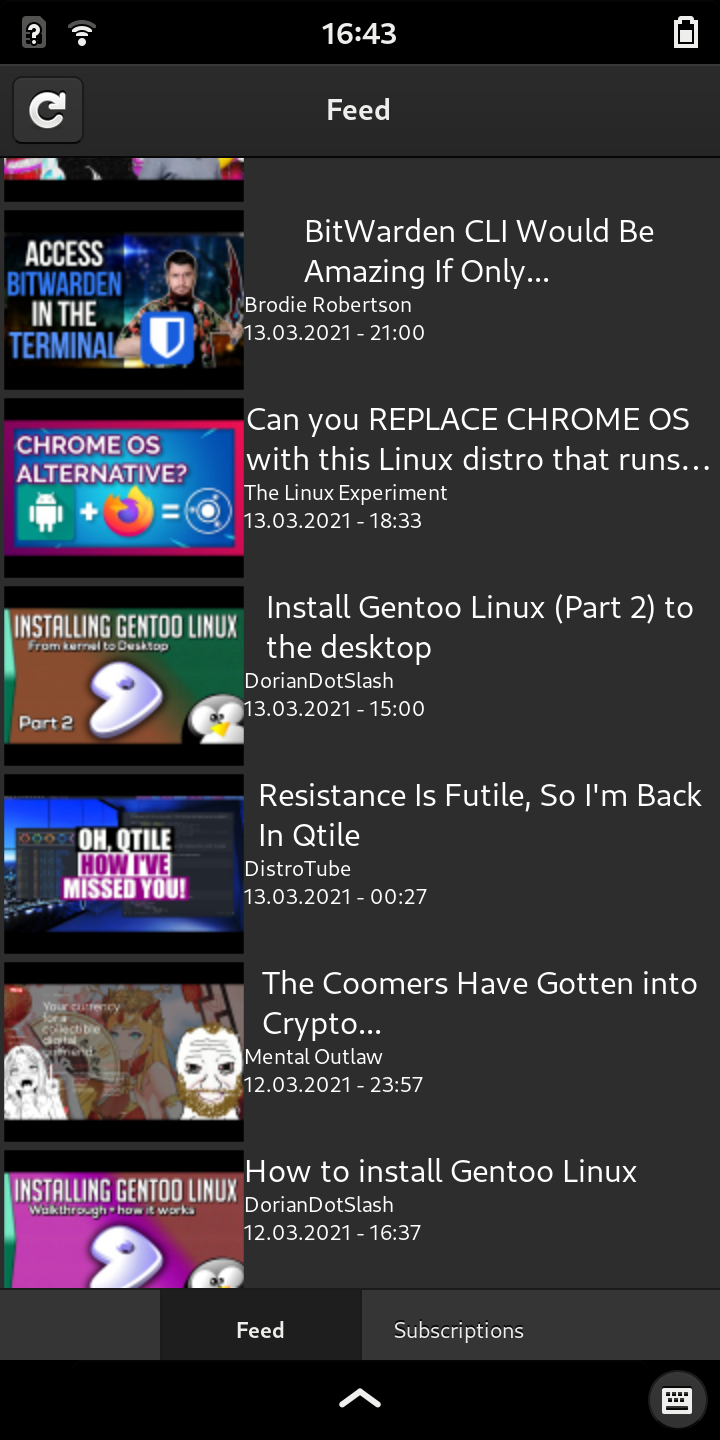
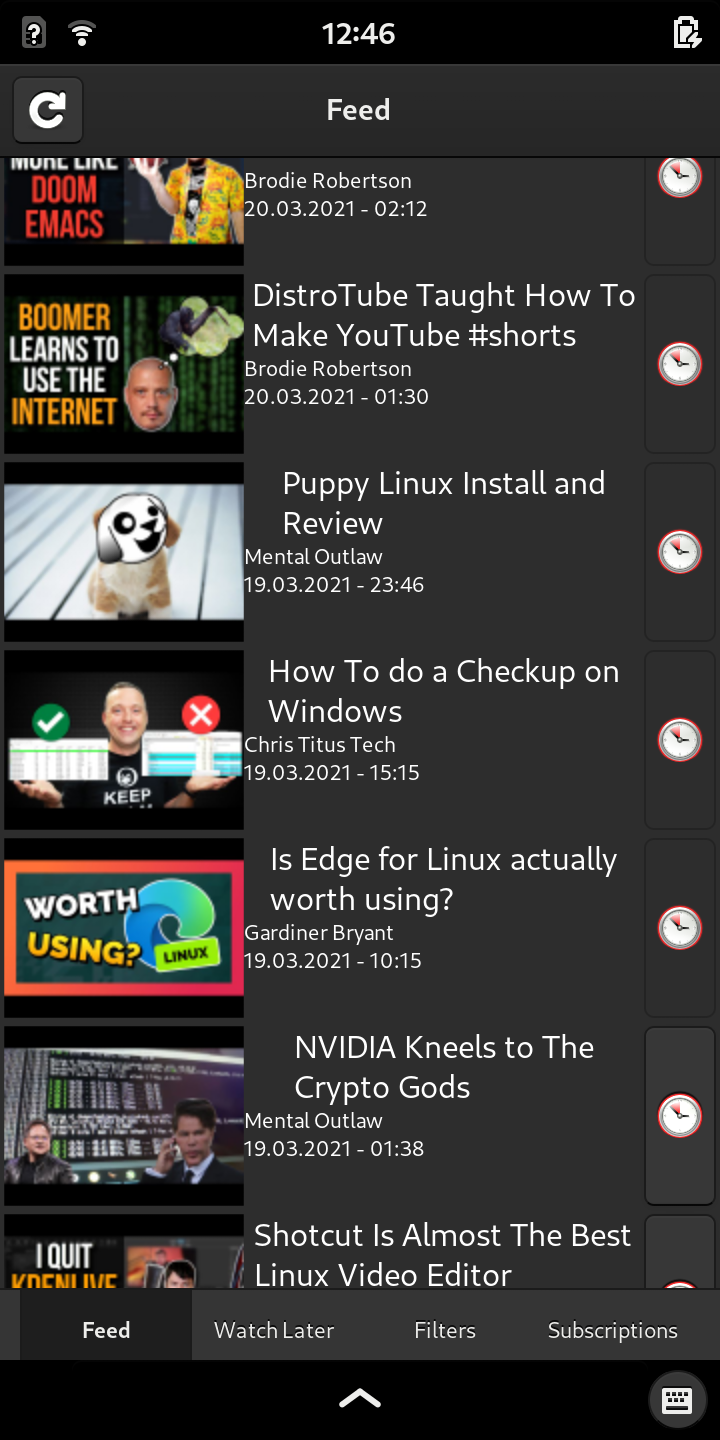
More screenshots, spelling of Watch Later

diff --git a/src/gui/header_bar.rs b/src/gui/header_bar.rs
@@ -49,7 +49,10 @@ impl FromStr for Page {
 
 impl From<Page> for String {
     fn from(page: Page) -> Self {
-        format!("{:?}", page)
+        match page {
+            Page::WatchLater => "Watch Later".to_string(),
+            _ => format!("{:?}", page),
+        }
     }
 }
 

diff --git a/README.md b/README.md
@@ -8,6 +8,12 @@ A Youtube-Client made for the Pinephone
       <img src="/screenshots/tubefeeder_screenshot_feed.png" alt="Feed" width="400"/>
     </td>
     <td>
+      <img src="/screenshots/tubefeeder_screenshot_watch_later.png" alt="Feed" width="400"/>
+    </td>
+    <td>
+      <img src="/screenshots/tubefeeder_screenshot_filters.png" alt="Feed" width="400"/>
+    </td>
+    <td>
       <img src="/screenshots/tubefeeder_screenshot_subscriptions.png" alt="Subscriptions" width="400"/>
     </td>
     <tr>
@@ -20,6 +26,7 @@ A Youtube-Client made for the Pinephone
 - Play the video with mpv when clicking the feed item
 - Subscribe to a channel in the app
 - Filtering out unwanted videos in the feed
+- A watch-later list
 
 # What it cannot do (yet)
 Tell me what features you want to be included by opening an [issue](https://github.com/Schmiddiii/Tubefeeder/issues).
